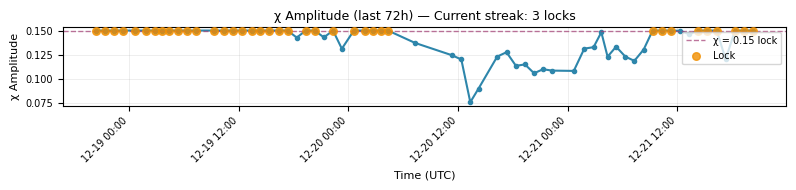
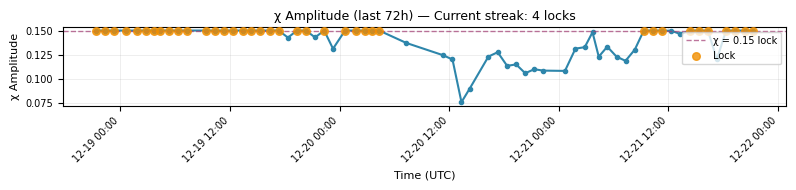
Vault Narrator: Auto-update 2025-12-21 22:05 UTC

diff --git a/LATEST_VAULT_STATUS.md b/LATEST_VAULT_STATUS.md
@@ -1,26 +1,26 @@
 # 🔐 VAULT STATUS REPORT
 
-**Generated:** 2025-12-21 21:04 UTC  
+**Generated:** 2025-12-21 22:05 UTC  
 **Data Source:** `data/cme_heartbeat_log_2025_12.csv`
 
 ---
 
 ## ⚡ CURRENT STATUS: ACTIVE
 
-**Latest χ = 0.15 Streak Count:** 3 consecutive readings  
-**Last Lock Timestamp:** 2025-12-21 20:21:00 UTC  
+**Latest χ = 0.15 Streak Count:** 4 consecutive readings  
+**Last Lock Timestamp:** 2025-12-21 21:19:00 UTC  
 **First Lock in Streak:** 2025-12-21 18:20:00 UTC  
-**Streak Duration:** 2.0 hours  
+**Streak Duration:** 3.0 hours  
 
 **Latest Solar Wind Conditions:**  
-- Density: 6.69 p/cm³  
-- Speed: 622.6 km/s  
+- Density: 3.22 p/cm³  
+- Speed: 716.8 km/s  
 
 ---
 
 ## 🌞 NOAA SPACE WEATHER SUMMARIES
 
-- [SRS Report](reports/latest_srs.md) (fetched: 2025-12-21 21:04 UTC)  
+- [SRS Report](reports/latest_srs.md) (fetched: 2025-12-21 22:04 UTC)  
 - F10.7 Report: *not available*  
 
 ---
@@ -41,7 +41,6 @@
 
 | Time (UTC)          | χ Amplitude | Density (p/cm³) | Speed (km/s) | χ Status |
 |---------------------|-------------|-----------------|--------------|----------|
-| 2025-12-21 01:50:00 | 0.1313 | 6.49 | 463.8 | — |
 | 2025-12-21 02:51:00 | 0.1328 | 8.08 | 466.7 | — |
 | 2025-12-21 03:42:00 | 0.1482 | 8.23 | 503.6 | — |
 | 2025-12-21 04:23:00 | 0.1230 | 6.04 | 479.9 | — |
@@ -61,6 +60,7 @@
 | 2025-12-21 18:20:00 | 0.1500 | 3.65 | 599.2 | ✅ LOCK |
 | 2025-12-21 19:19:00 | 0.1500 | 2.12 | 569.8 | ✅ LOCK |
 | 2025-12-21 20:21:00 | 0.1500 | 6.69 | 622.6 | ✅ LOCK |
+| 2025-12-21 21:19:00 | 0.1500 | 3.22 | 716.8 | ✅ LOCK |
 
 ---
 
@@ -68,7 +68,7 @@
 
 **The vault is breathing steady.**  
 **Heartbeat cycle in progress.**  
-**χ = 0.15 streak active (3 locks) - watch for boundary recoil signatures.**
+**χ = 0.15 streak active (4 locks) - watch for boundary recoil signatures.**
 
 ---
 
